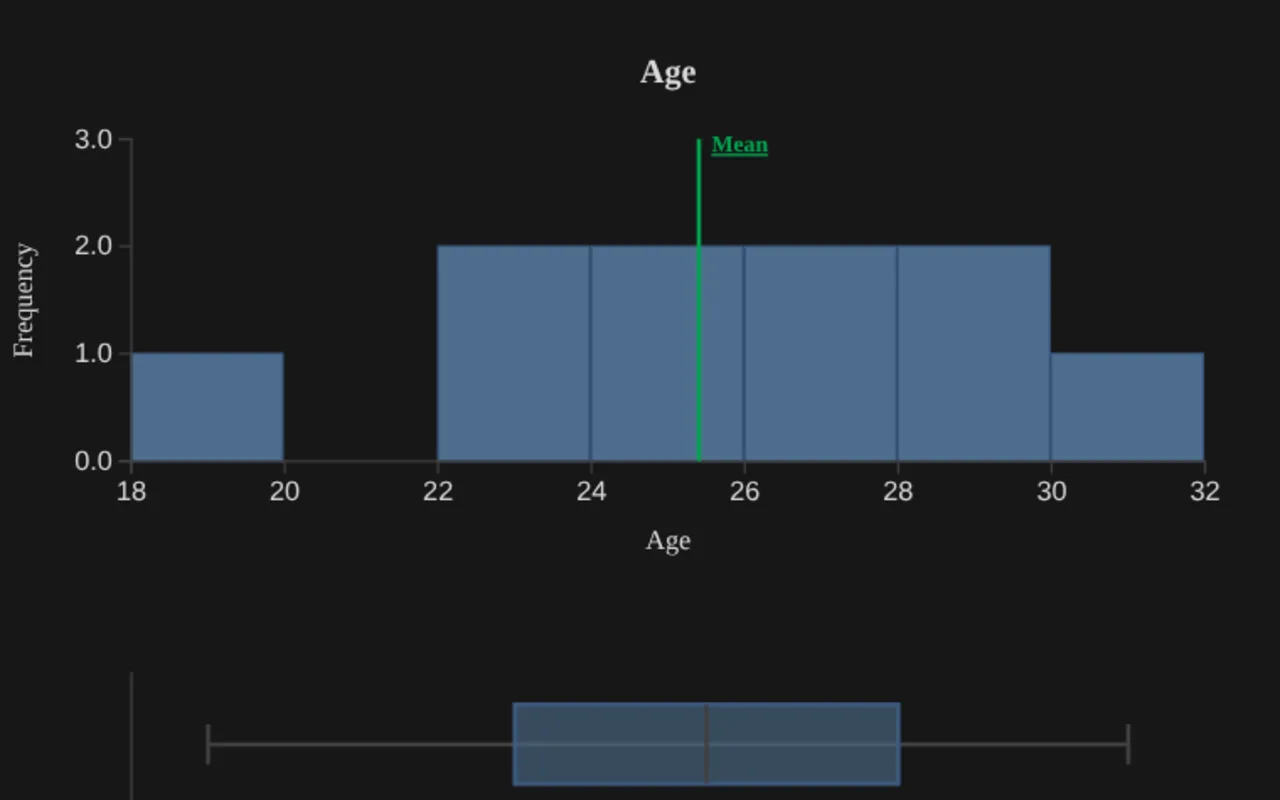
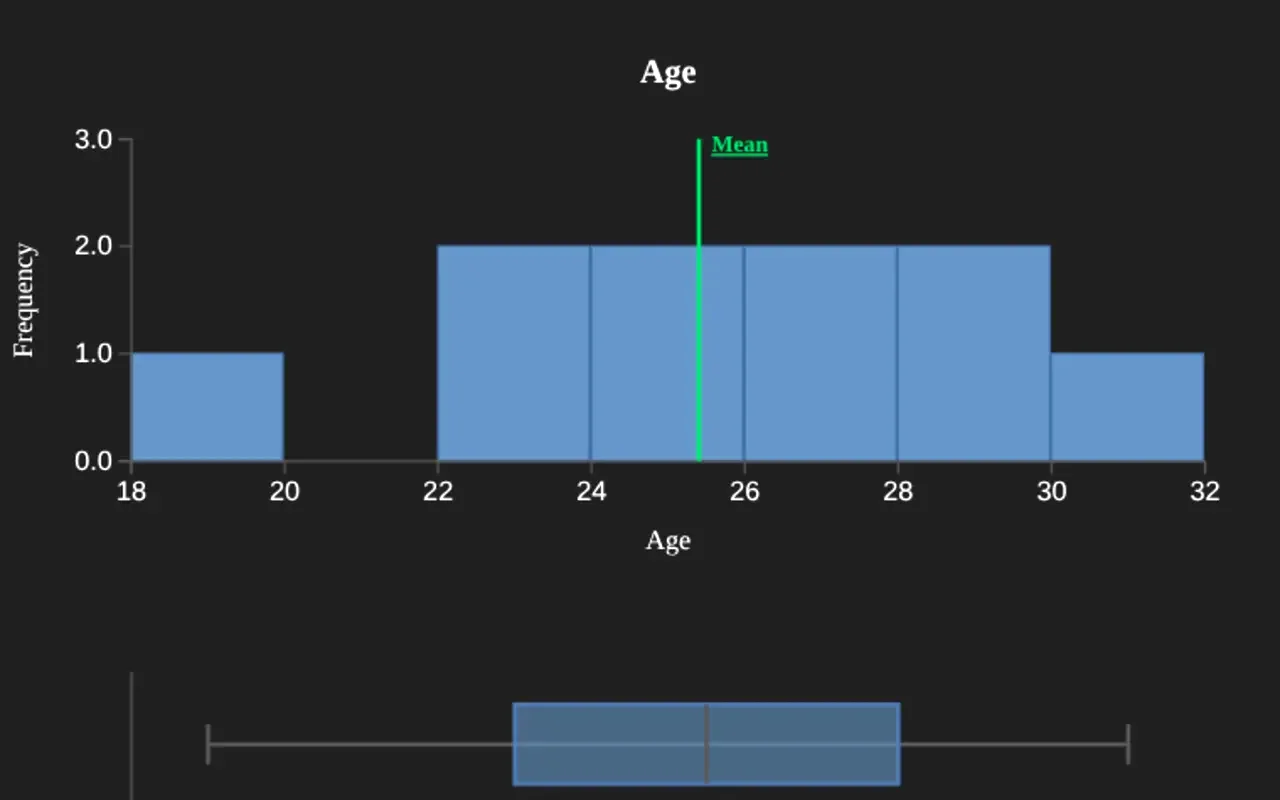
UI climb r30: fainter light grid, CV button beside its text, crisper phone chart
Light-mode grid lines are fainter behind body copy. In the About band the
CV button follows the text instead of sitting at the far edge. The phone
hero chart gets more contrast so its axes and box plot stay visible in
dark mode, and its caption is larger and fits one line.

diff --git a/index.html b/index.html
@@ -32,8 +32,8 @@
     /* Blue-ruled graph paper by day, chalkboard by night. One accent: the red pencil. */
     :root {
       --paper: #f4f4f1;
-      --grid: rgba(74, 134, 204, 0.08);
-      --grid-major: rgba(74, 134, 204, 0.14);
+      --grid: rgba(74, 134, 204, 0.06);
+      --grid-major: rgba(74, 134, 204, 0.10);
       --ink: #1c1f24;
       --ink-soft: #414852;
       --red: #b8321c;
@@ -223,7 +223,7 @@
     .stack:hover .p1 { transform: translate(-10px, -8px); }
     .stack:hover .p2 { transform: translate(12px, -4px); }
     .stack:hover .p3 { transform: translate(-4px, 10px); }
-    .stack-cap { display: none; margin: -0.5rem 0 0; font-family: var(--mono); font-size: 0.8rem; color: var(--ink-soft); }
+    .stack-cap { display: none; margin: -0.5rem 0 0; font-size: 0.98rem; color: var(--ink-soft); }
     @media (max-width: 899px) { .stack-cap { display: block; } }
     .stack .note { position: absolute; right: 1%; top: 3%; font-size: 1.6rem; rotate: 5deg; z-index: 4; max-width: 9ch; text-align: right; }
     @media (max-width: 899px) { .hero { gap: 1.75rem; padding-bottom: 2rem; } .stack { justify-self: center; aspect-ratio: 1.02; max-width: 360px; } .stack { aspect-ratio: 1.45; } .stack .note, .stack .p2, .stack .p3 { display: none; } .stack .p1 { width: 92%; top: 7%; left: 4%; rotate: -2deg; } }
@@ -352,7 +352,7 @@
     /* Answer key: four index cards */
     .key { padding: 3rem 0 4.5rem; border-top: 2px solid var(--ink); }
     .key .sig { color: var(--red); font-weight: 300; margin-right: 0.1em; }
-    @media (min-width: 900px) { .key .who { display: grid; grid-template-columns: minmax(0, 1fr) auto; grid-template-areas: "name cv" "role cv" "line cv"; column-gap: 3rem; align-items: center; max-width: none !important; margin: 1.5rem 0 2.75rem !important; padding: 1.4rem 1.6rem 1.4rem 1.5rem; background: var(--card); box-shadow: var(--shadow); } .key .who-name { grid-area: name; } .key .who-role { grid-area: role; } .key .who-line { grid-area: line; margin-bottom: 0; } .key .who-cv { grid-area: cv; } .key .cards { grid-template-columns: repeat(3, 1fr) !important; gap: 0 2.5rem !important; } .key .cards li { padding: 1rem 0 0 !important; } }
+    @media (min-width: 900px) { .key .who { display: grid; grid-template-columns: minmax(0, 46rem) auto; justify-content: start; grid-template-areas: "name cv" "role cv" "line cv"; column-gap: 3.5rem; align-items: center; max-width: none !important; margin: 1.5rem 0 2.75rem !important; padding: 1.4rem 1.6rem 1.4rem 1.5rem; background: var(--card); box-shadow: var(--shadow); } .key .who-name { grid-area: name; } .key .who-role { grid-area: role; } .key .who-line { grid-area: line; margin-bottom: 0; } .key .who-cv { grid-area: cv; } .key .cards { grid-template-columns: repeat(3, 1fr) !important; gap: 0 2.5rem !important; } .key .cards li { padding: 1rem 0 0 !important; } }
     .key .who { margin: 1.5rem 0 2.75rem; padding-left: 1.25rem; border-left: 4px solid var(--red); max-width: 46rem; }
     .key .who-name { margin: 0; font-size: clamp(1.9rem, 3.4vw, 2.6rem); font-weight: 750; font-stretch: 90%; letter-spacing: -0.02em; line-height: 1.05; }
     .key .who-role { margin: 0.45rem 0 0; font-size: 1.12rem; color: var(--ink); max-width: 52ch; }
@@ -434,7 +434,7 @@
           <figure class="print p3"><a class="card-link" href="https://equashion.lefthanddev.com/" tabindex="-1" aria-hidden="true" title="Open equaSHion"></a><img src="img/equashion-hero.webp" width="1280" height="800" alt="equaSHion, an equation editor, showing the quadratic formula."><figcaption>equaSHion</figcaption></figure>
           <p class="note" aria-hidden="true">ink smudges are a feature</p>
         </div>
-        <p class="stack-cap">rāSHio drawing a histogram and box plot, live in the browser.</p>
+        <p class="stack-cap">rāSHio, drawing a histogram live in the browser.</p>
       </section>
 
 
